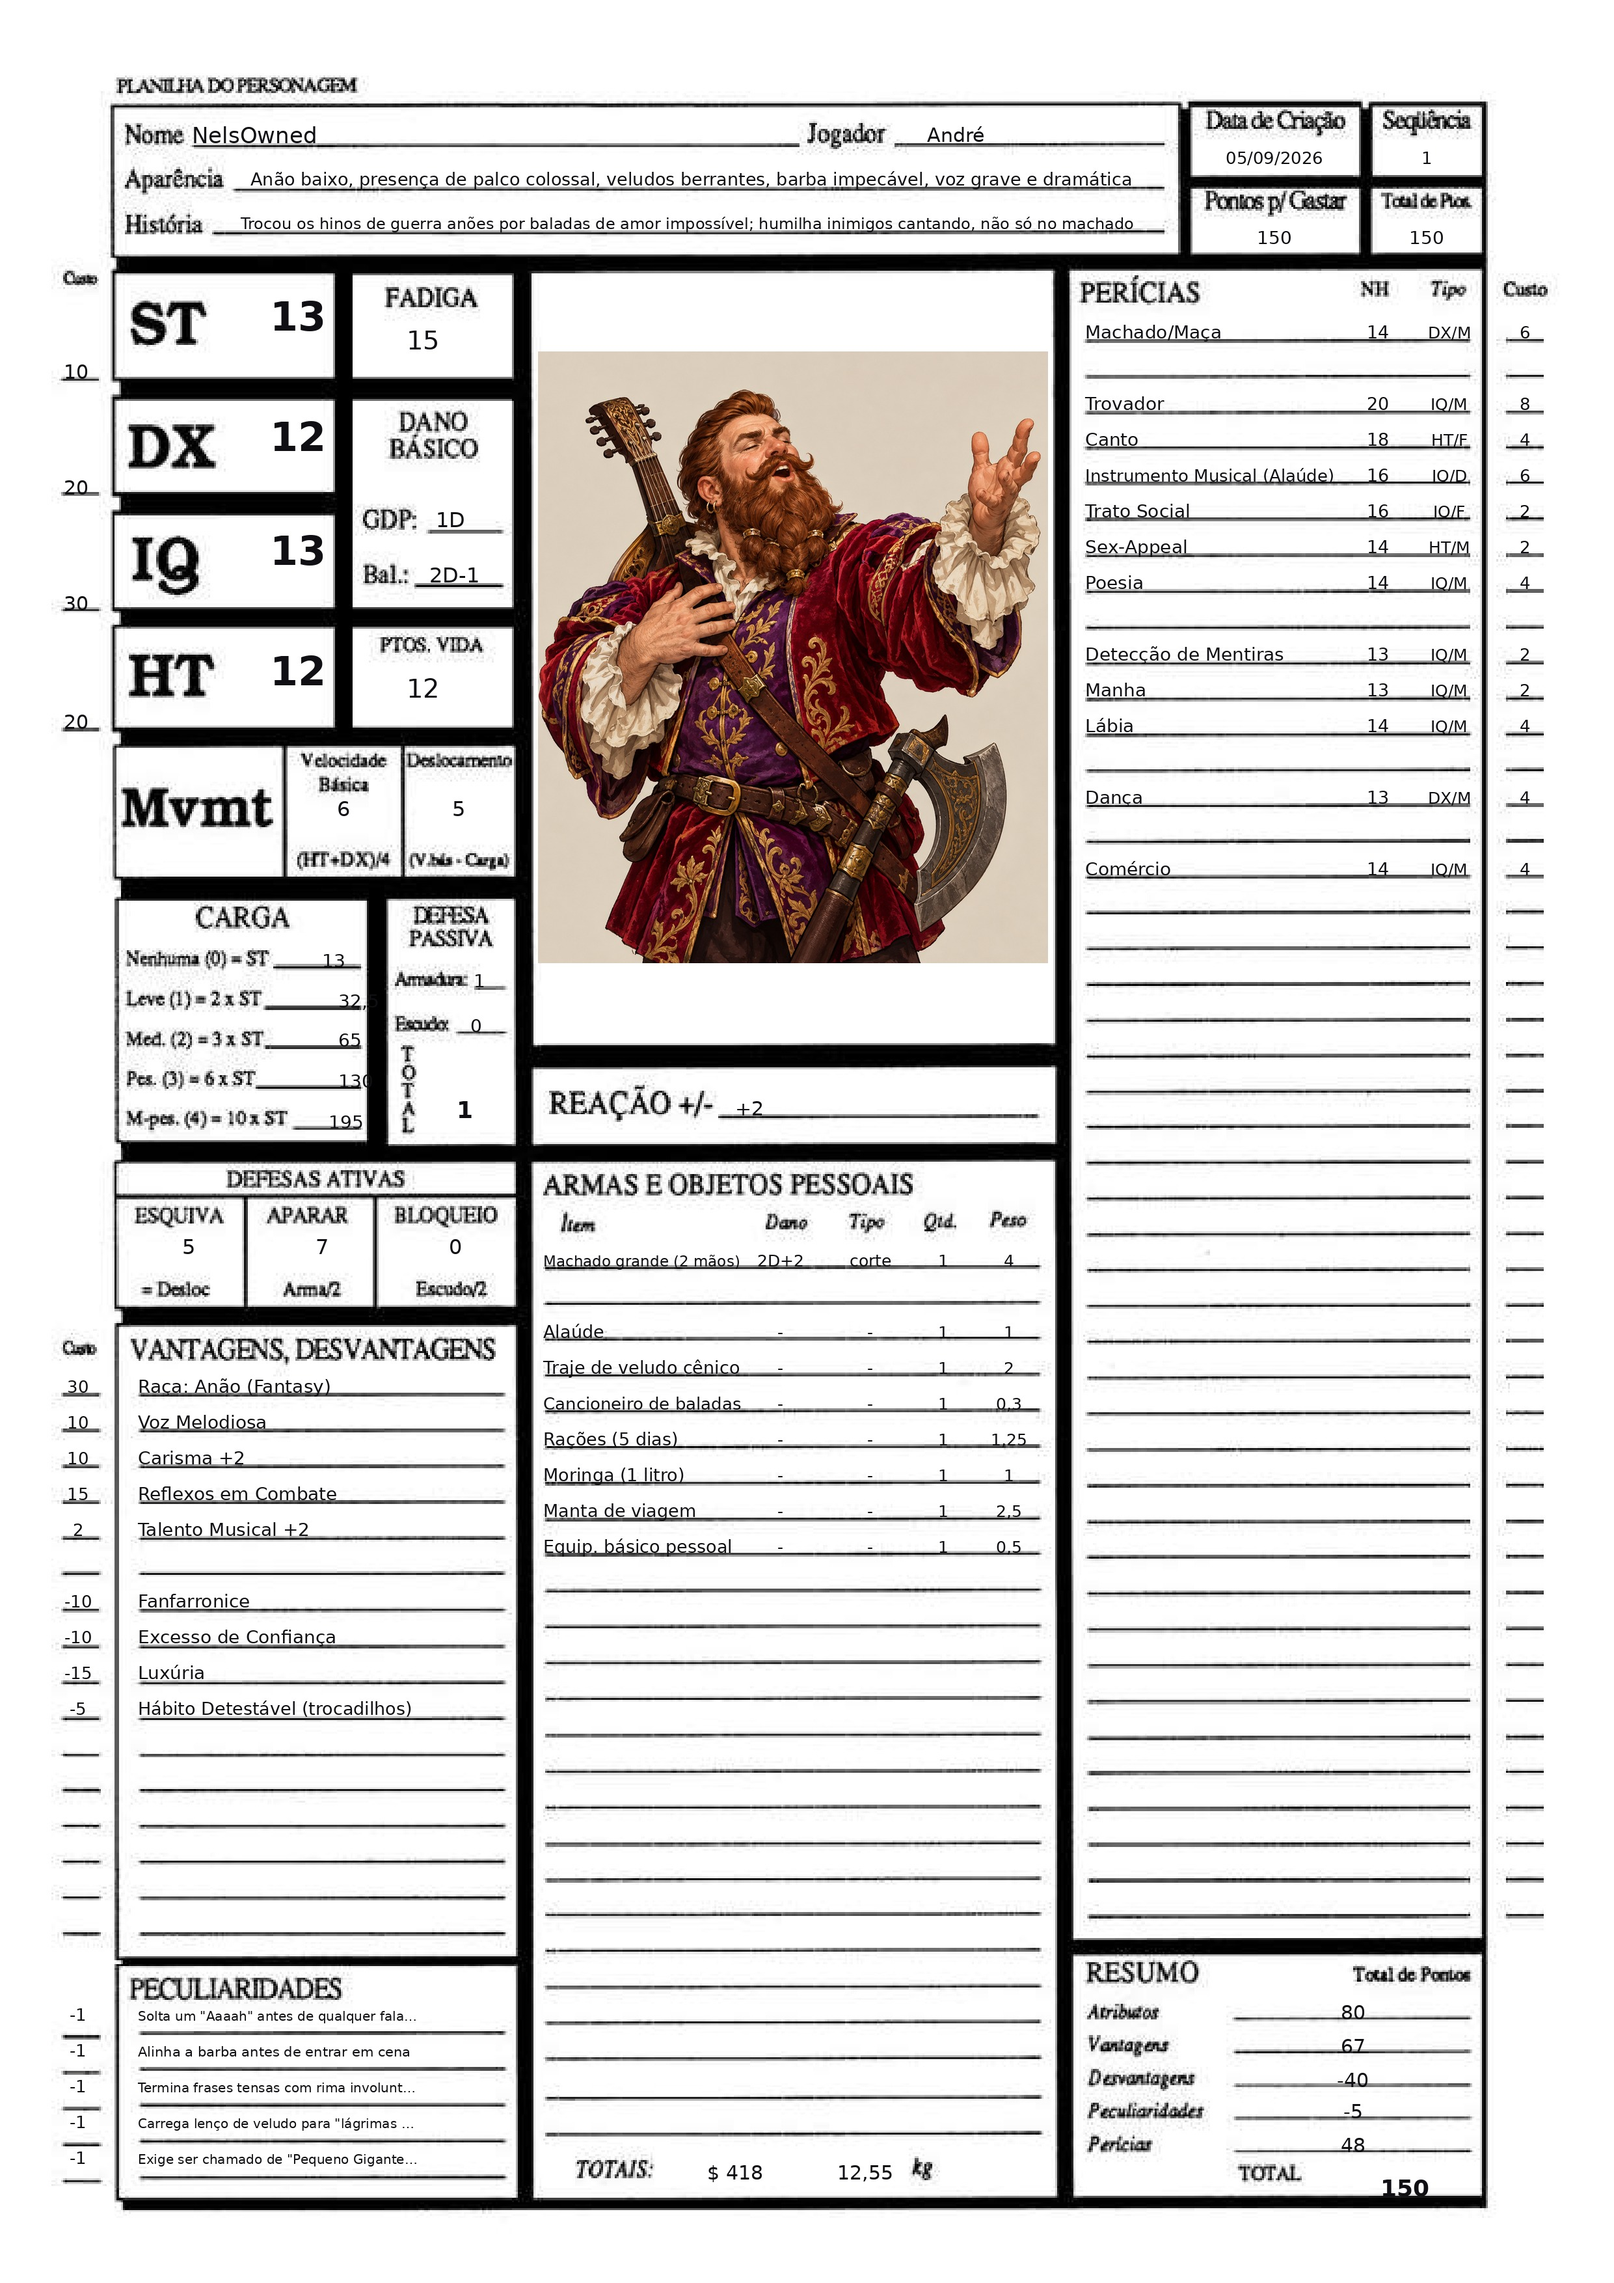
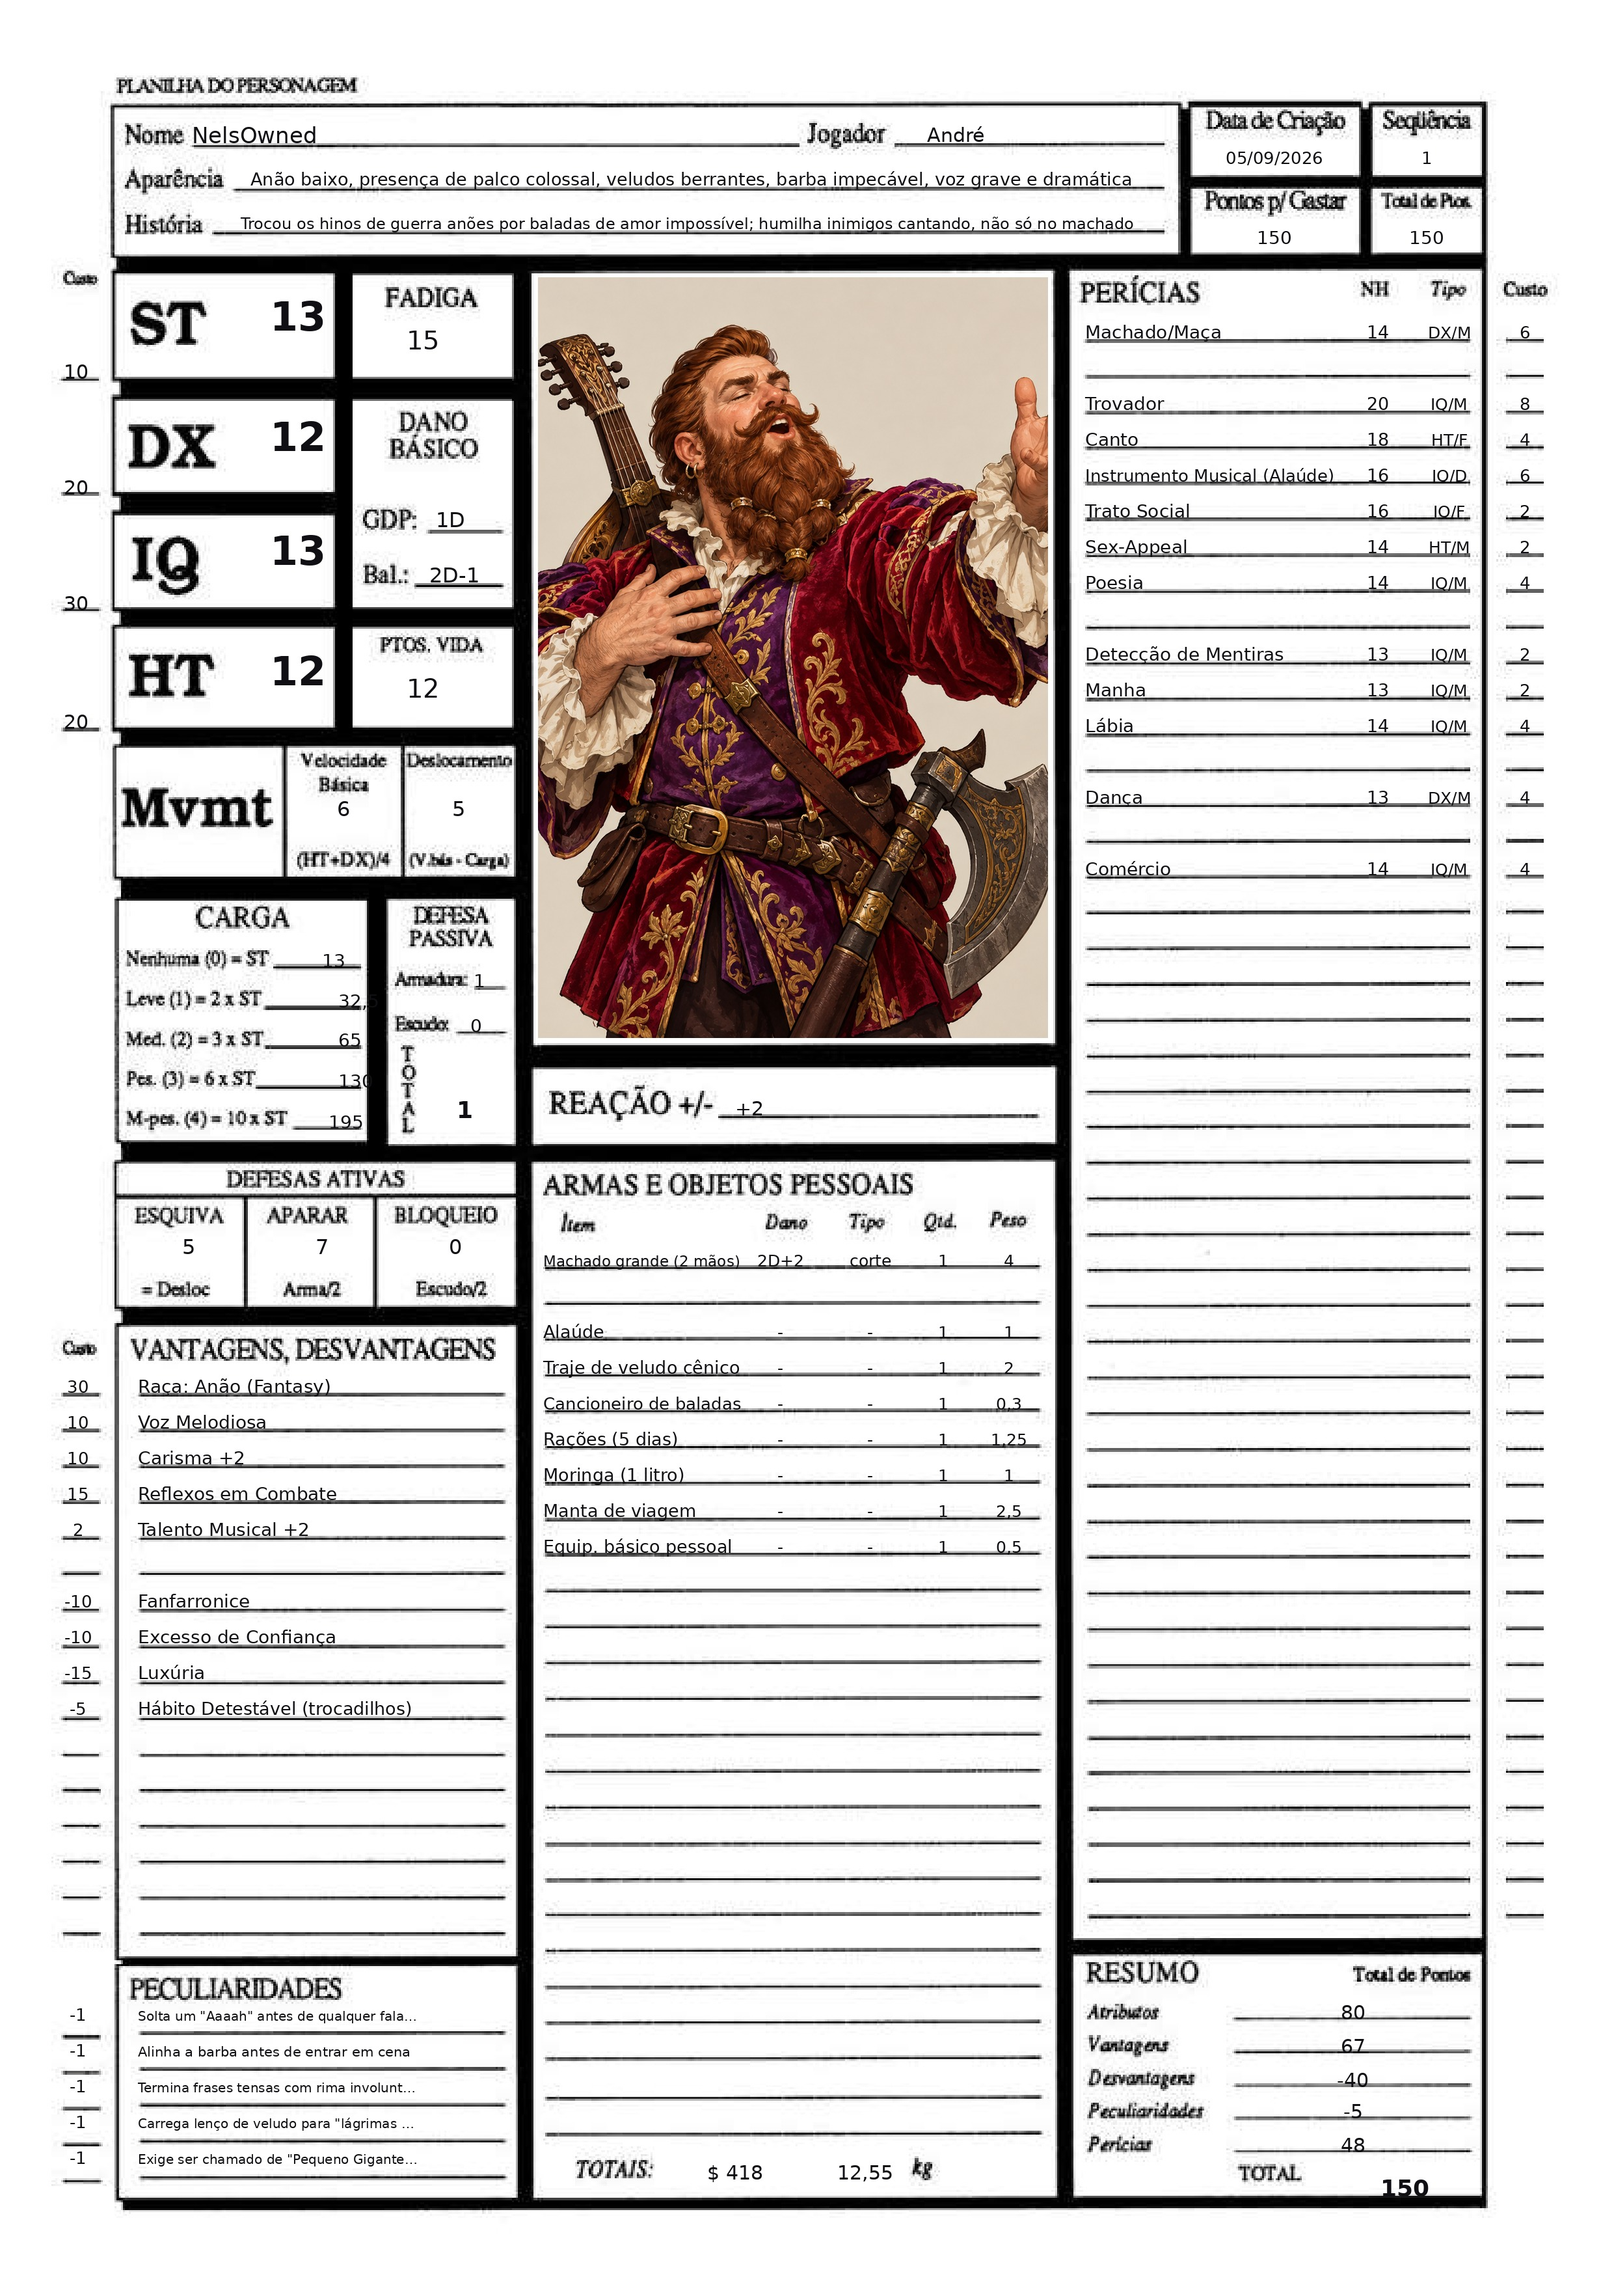
Faz o retrato preencher todo o quadro da ficha (cover em vez de contain)
O script encaixava a foto preservando toda a imagem, deixando faixas em
branco quando a proporção não batia com o quadro. Agora ele escala para
cobrir o quadro inteiro e corta o excesso, centralizado.

Claude-Session: https://claude.ai/code/session_01HVBwUD344TfZqG8BBMPAC4

Changed region(s): [[0.3104, 0.1243, 0.6518, 0.4661]]

diff --git a/.claude/skills/criar-personagem-gurps/scripts/preencher_ficha.py b/.claude/skills/criar-personagem-gurps/scripts/preencher_ficha.py
@@ -220,22 +220,25 @@ def achar_foto(pasta: Path, saida: Path):
 
 
 def colar_foto(img, foto_path: Path):
-    """Encaixa a foto no quadro do retrato, preservando a proporcao e centralizando."""
+    """Preenche todo o quadro do retrato, preservando a proporcao e cortando o excesso."""
     x0, y0, x1, y1 = FOTO_BOX
     box_w, box_h = x1 - x0, y1 - y0
     foto = Image.open(foto_path)
     if foto.mode not in ("RGB", "RGBA"):
         foto = foto.convert("RGBA" if "A" in foto.mode else "RGB")
 
-    escala = min(box_w / foto.width, box_h / foto.height)
+    escala = max(box_w / foto.width, box_h / foto.height)
     novo = (max(1, int(foto.width * escala)), max(1, int(foto.height * escala)))
     foto = foto.resize(novo, Image.LANCZOS)
 
-    pos = (x0 + (box_w - foto.width) // 2, y0 + (box_h - foto.height) // 2)
+    esquerda = (foto.width - box_w) // 2
+    topo = (foto.height - box_h) // 2
+    foto = foto.crop((esquerda, topo, esquerda + box_w, topo + box_h))
+
     if foto.mode == "RGBA":
-        img.paste(foto.convert("RGB"), pos, foto.split()[-1])
+        img.paste(foto.convert("RGB"), (x0, y0), foto.split()[-1])
     else:
-        img.paste(foto, pos)
+        img.paste(foto, (x0, y0))
 
 
 def main():
